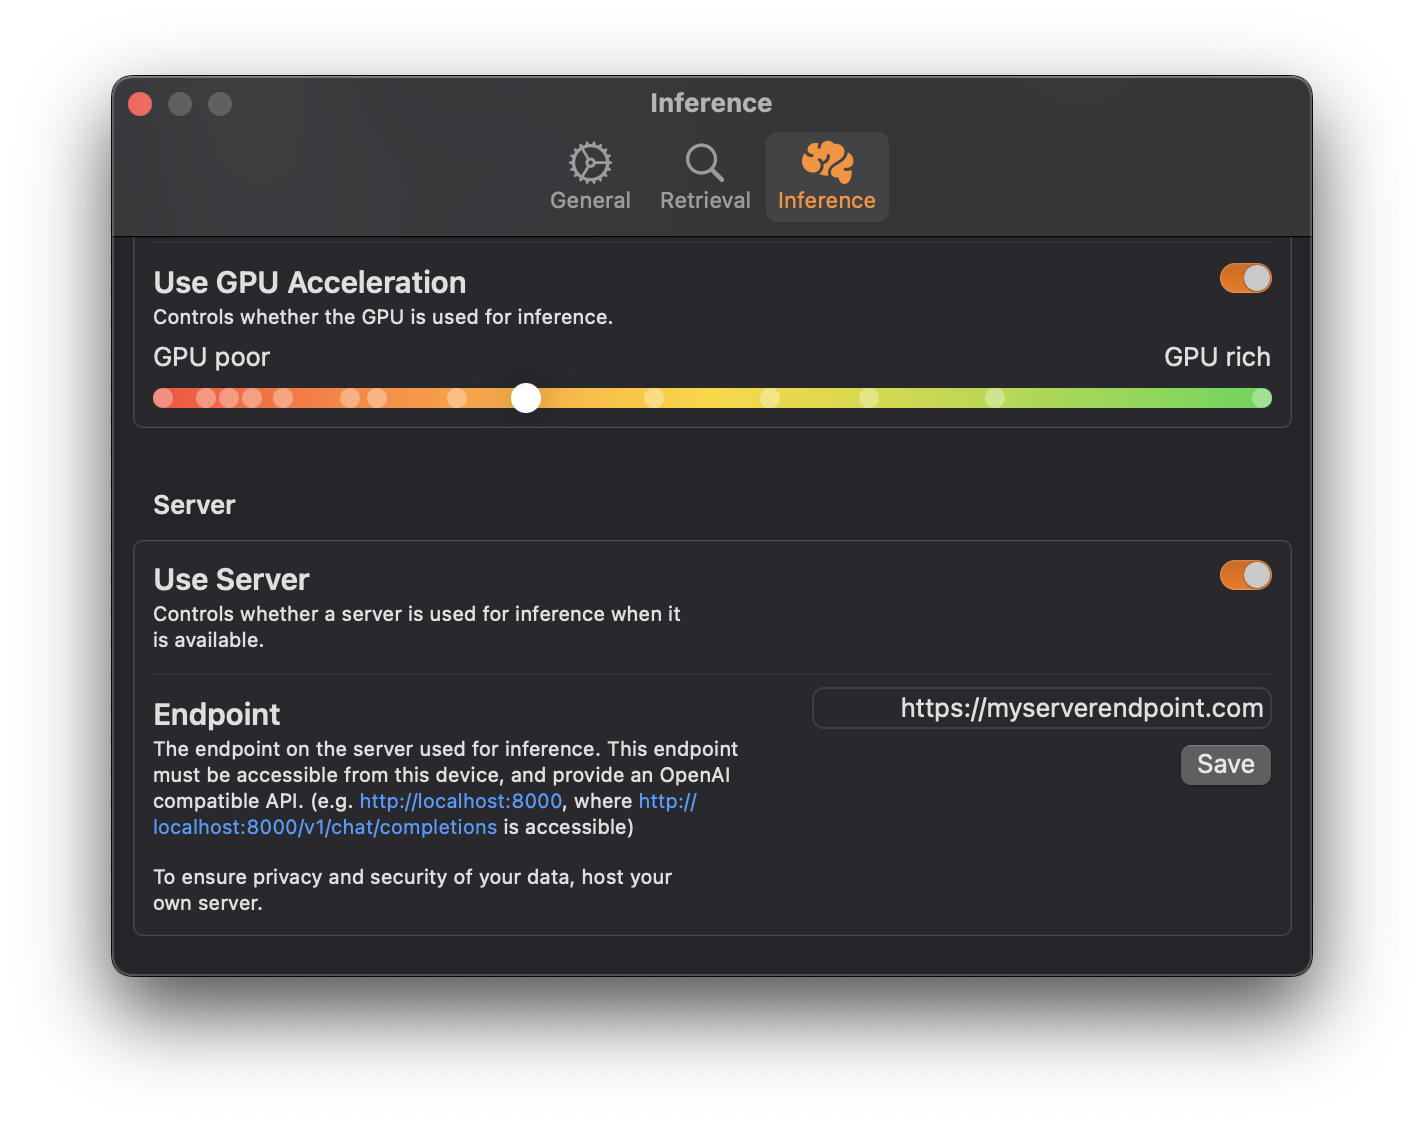
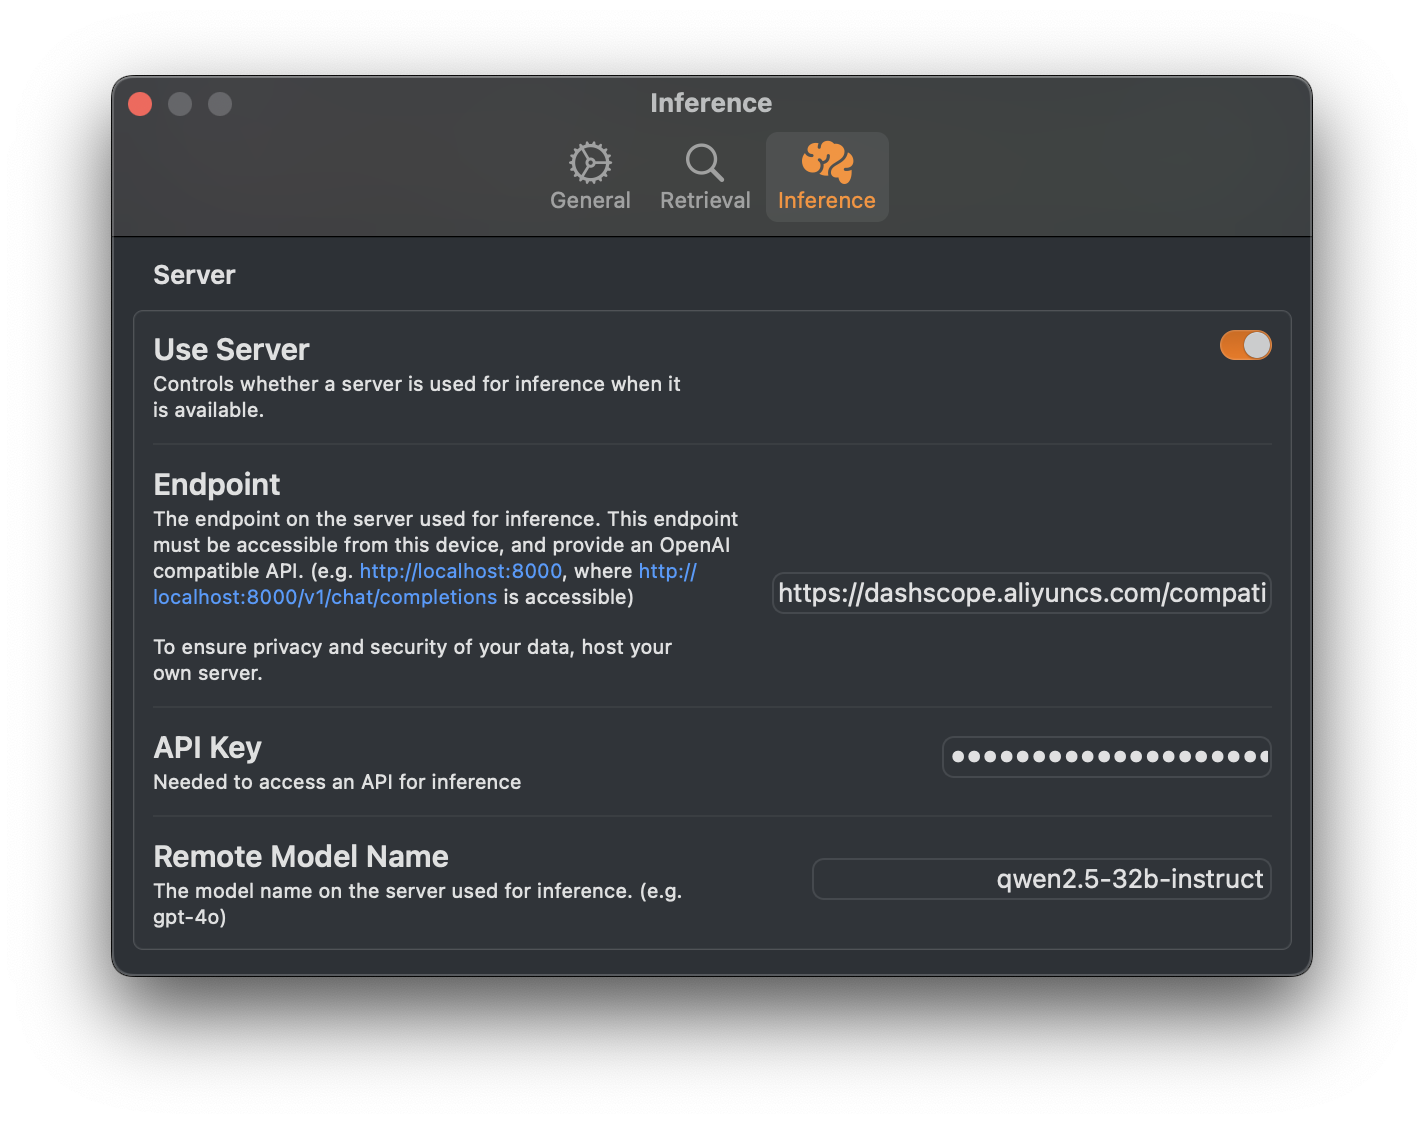
Updated README & appcast.xml.

diff --git a/README.md b/README.md
@@ -139,7 +139,7 @@ Sidekick uses `llama.cpp` as its inference backend, which is optimized to delive
 
 ![Screenshot](https://raw.githubusercontent.com/johnbean393/Sidekick/refs/heads/main/README%20Images/speculativeDecodingSupport.png)
 
-Optionally, offload generation to your desktop to speed up generation while extending the battery life of your MacBook.
+Optionally, offload generation to speed up generation while extending the battery life of your MacBook.
 
 ![Screenshot](https://raw.githubusercontent.com/johnbean393/Sidekick/refs/heads/main/README%20Images/serverUse.png)
 
